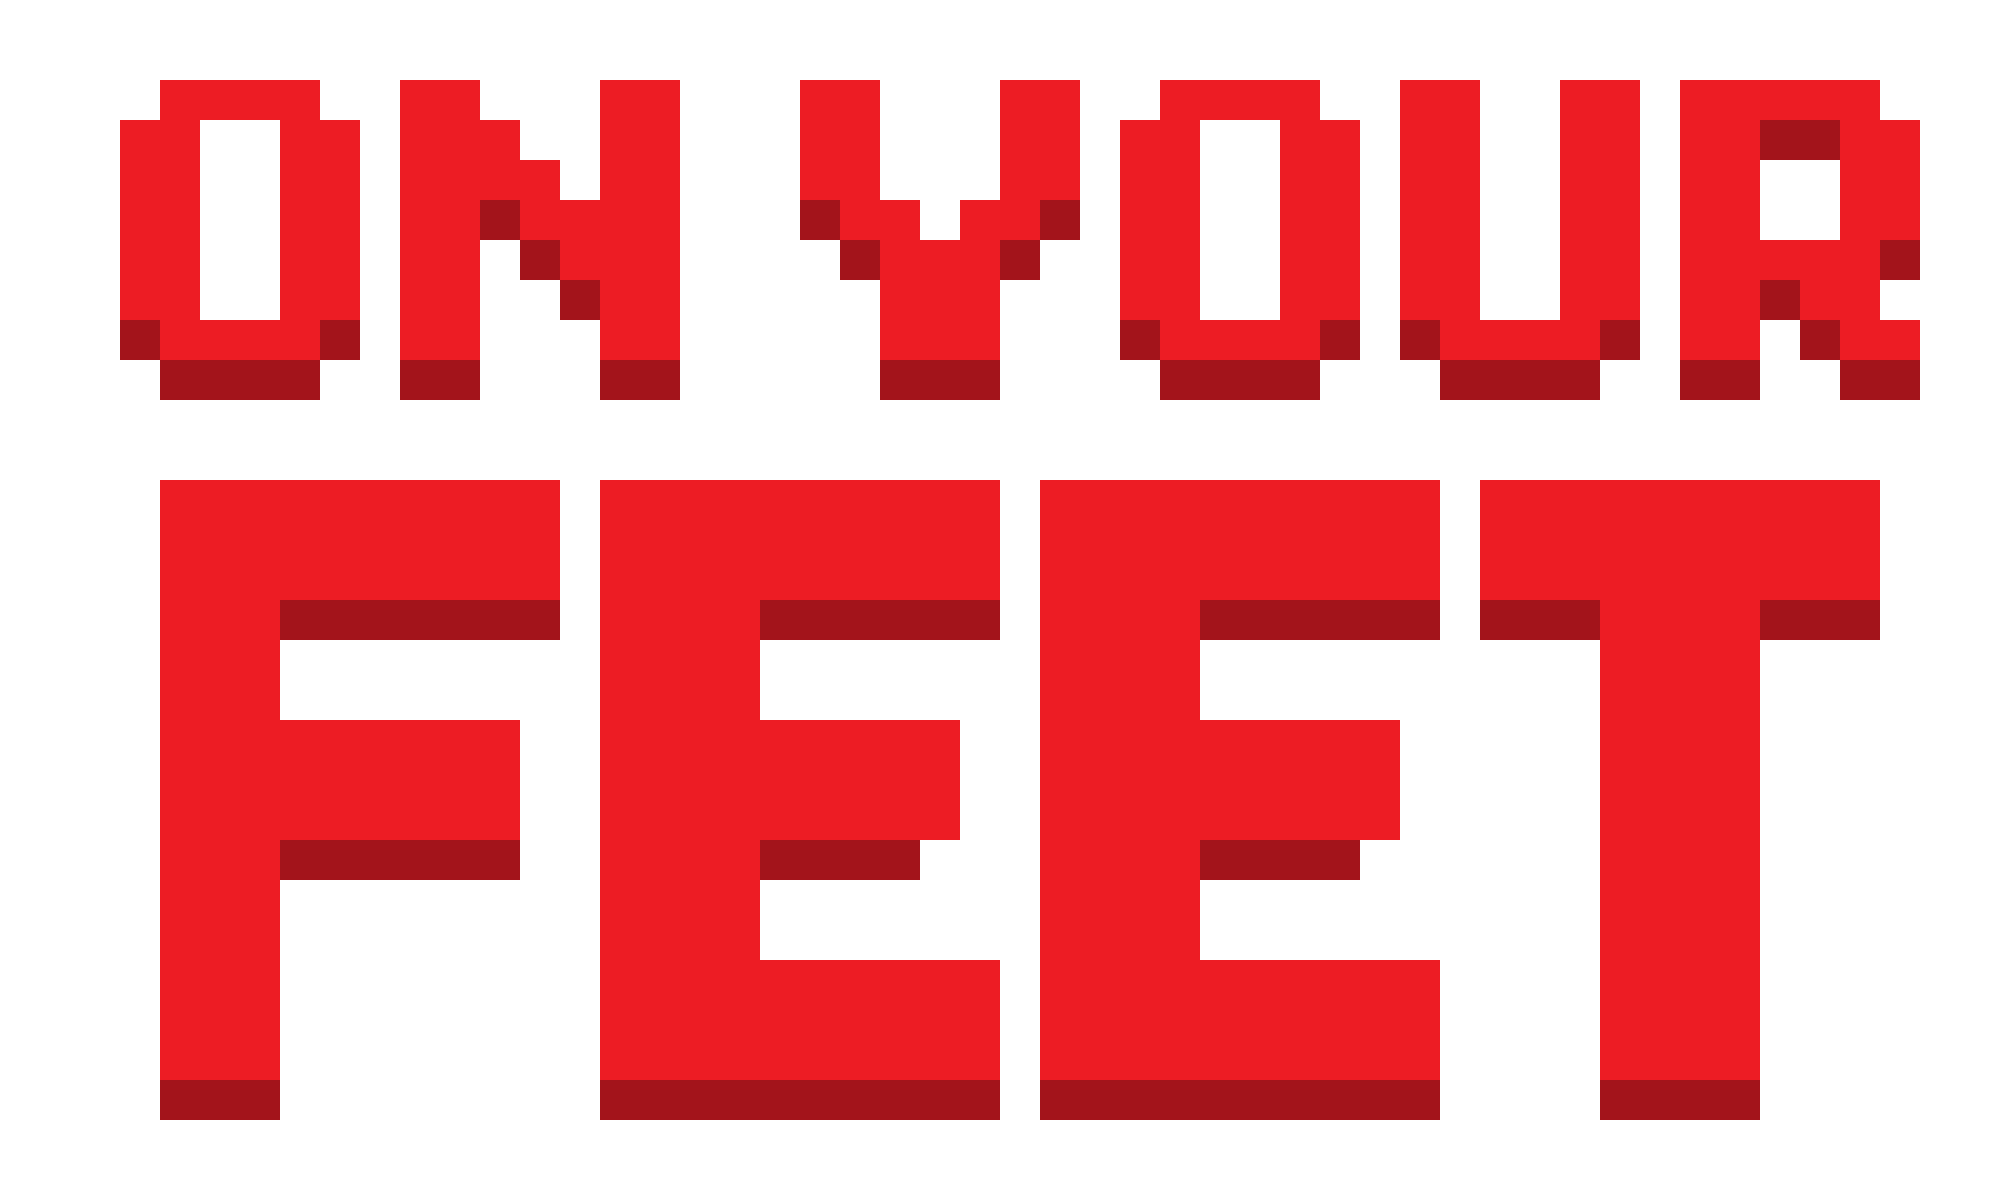
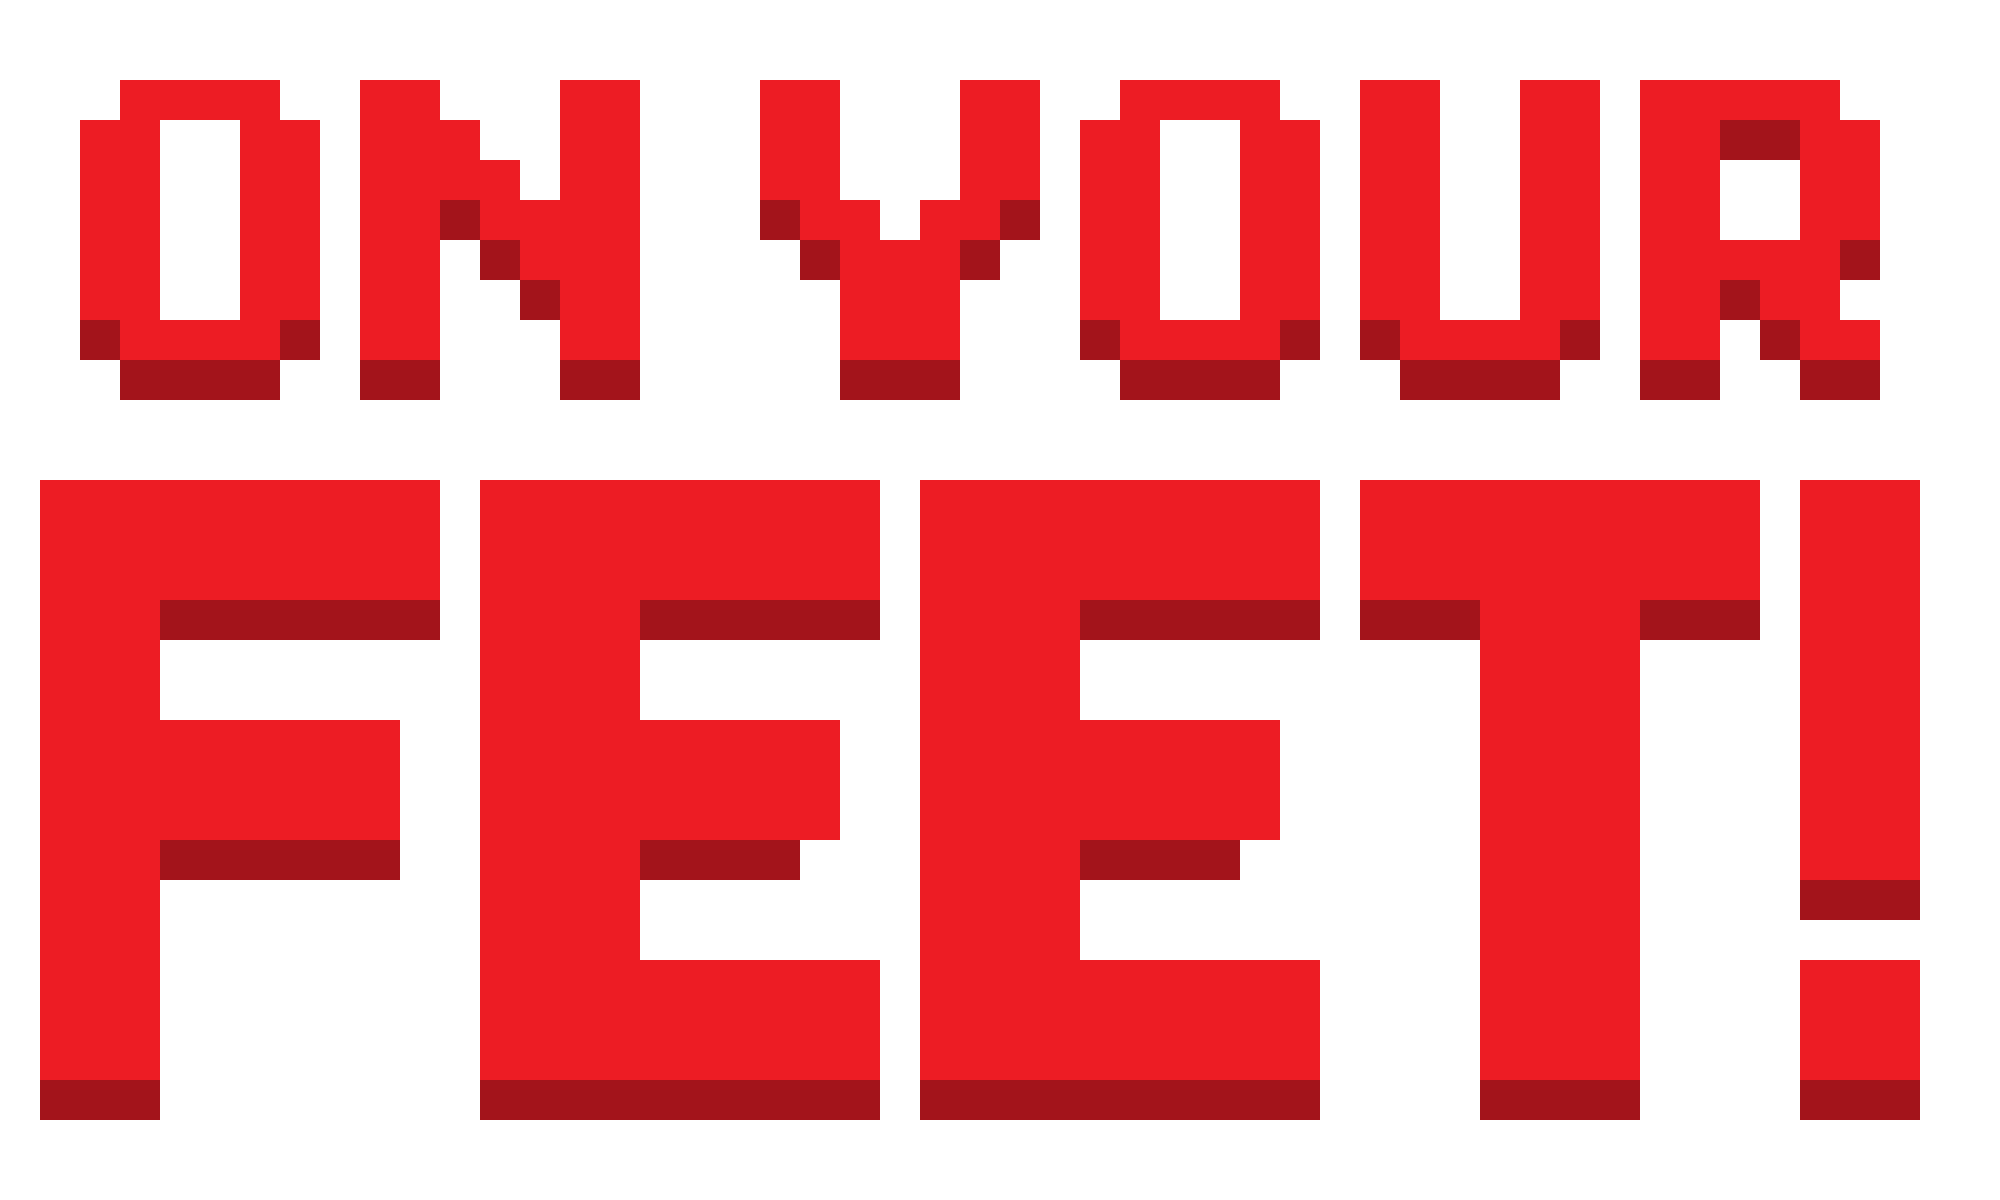
Resume and On Your Feet Change
Updated On Your Feet logo, updated resume, and took out Spain

diff --git a/Feet.html b/Feet.html
@@ -472,24 +472,6 @@
                             The player uses the Aim Kick to reach a button, then uses it again to hit a moving switch. They must avoid enemies, bounce the ball off the ceiling to hit a switch, and then jump on a series of breakable platforms to evade more enemies. The player jumps onto a moving platform and hits a switch with the correct timing. After that, they hit a different switch to rotate platforms that have spikes on the bottom. The level concludes with the player riding an auto-scrolling platform while dodging enemies and hitting switches, thereby reaching the goal.
                         </p>
                     </div>
-
-                    <div class="w-full max-w-5xl mx-auto mb-16"> <hr class="my-10 border-t border-gray-300">
-                        <h3 class="text-3xl font-bold text-gray-900 mb-8 text-center">World 4: Spain (Spain 1-1)</h3>
-                        <div class="level-comparison-container two-items">
-                            <div class="media-item">
-                                <img src="Feet/Spain 1-1.png" alt="Spain 1-1 Level Concept" loading="lazy" onclick="openFullscreen('Feet/Spain 1-1.png')">
-                                <p class="label">Initial Concept Sketch</p>
-                            </div>
-                            <div class="media-item" onclick="event.stopPropagation();">
-                                <iframe src="https://www.youtube.com/embed/sAySHCYAXcA?si=9xB6AWEcGQRjdl4c" title="YouTube video player" frameborder="0" allow="accelerometer; autoplay; clipboard-write; encrypted-media; gyroscope; picture-in-picture; web-share" referrerpolicy="strict-origin-when-cross-origin" allowfullscreen></iframe>
-                                <p class="label">Completed Level Gameplay</p>
-                            </div>
-                        </div>
-                        <p class="text-md text-gray-700 leading-relaxed text-left">
-                            Using the new ability, Backheel, the player presses a button that can't be reached with a regular kick, and activates a necessary platform. Then, they have to get past some spike top crates, and defeat one enemy to get a key for the first door. After unlocking it, they smash a pot to get another key and do a Charge Kick to slide a crate onto a pressure plate, which activates a platform that allows access to the second locked door. After that, the level introduces the reverse gravity mechanic. The player has to jump over some breakable platforms and use an Aim Kick to press a button that turns off the anti-gravity. After another Backheel, they get to the platforms that vanish when stepped on, and reach the final checkpoint.
-                        </p>
-                    </div>
-
                 </div>
             </section>
 
